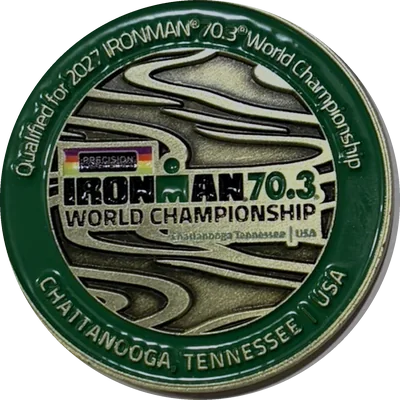
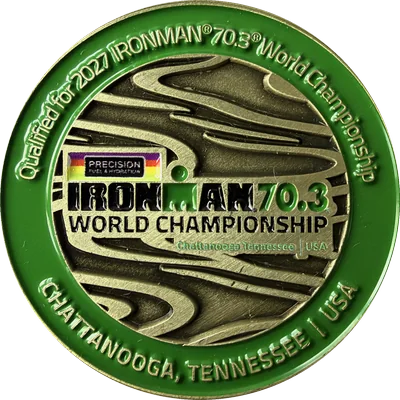
Replace the coin photos with daylight shots and give the patch its back
The new photos have no lamp glare, so the coins need no retouching; they are
fitted along the rim, corrected for the slightly oblique shot and levelled on
the lettering. The T100 patch now flips onto its velcro back like a coin.

diff --git a/assets/onepager/site.js b/assets/onepager/site.js
@@ -52,7 +52,7 @@
     coinsHint: "Tap a coin to flip it",
     coinNice: "Flip the Nice 2026 coin",
     coinNiceCaption: "70.3\nNice 2026",
-    patchQatar: "Spin the T100 Qatar 2025 patch",
+    patchQatar: "Flip the T100 Qatar 2025 patch",
     patchQatarCaption: "T100\nQatar 2025",
     coinChattanooga: "Flip the Chattanooga 2027 coin",
     goalEyebrow: "Looking ahead · 2027",
@@ -383,14 +383,14 @@
     .querySelector("#next-photo")
     .addEventListener("click", () => changePhoto(1));
   document.querySelector(".photo-controls").hidden = false;
-  // Each tap spins a coin one and a half turns, so it lands on its other face.
-  // The single-faced patch spins a full turn instead and has no flipped state.
+  // Each tap spins a coin or the patch one and a half turns, so it lands on its other face.
   document.querySelectorAll(".coin").forEach((coin) => {
-    const isPatch = coin.classList.contains("coin-patch");
-    // Thin metal discs stacked between the faces show the edge mid-spin.
+    // Thin metal discs stacked between the faces show a coin's edge mid-spin;
+    // the woven patch is too thin for one.
     // Only parallel layers: a plane across the faces makes Chrome split them.
+    const hasEdge = !coin.classList.contains("coin-patch");
     const inner = coin.querySelector(".coin-inner");
-    for (let layer = 0; !isPatch && layer <= 16; layer += 1) {
+    for (let layer = 0; hasEdge && layer <= 16; layer += 1) {
       const edge = document.createElement("span");
       edge.className = "coin-edge";
       edge.style.setProperty("--layer", layer);
@@ -399,8 +399,8 @@
     let turns = 0;
     coin.addEventListener("click", () => {
       turns += 1;
-      coin.style.setProperty("--coin-turn", `${turns * (isPatch ? 360 : 540)}deg`);
-      if (!isPatch) coin.setAttribute("aria-pressed", String(turns % 2 === 1));
+      coin.style.setProperty("--coin-turn", `${turns * 540}deg`);
+      coin.setAttribute("aria-pressed", String(turns % 2 === 1));
     });
   });
   document.querySelector(".coins-hint").hidden = false;

diff --git a/index.html b/index.html
@@ -56,8 +56,8 @@
       }
     </script>
     <link rel="icon" type="image/svg+xml" href="/assets/onepager/favicon.svg" />
-    <link rel="stylesheet" href="/assets/onepager/site.css?v=20261030-patch" />
-    <script src="/assets/onepager/site.js?v=20261030-patch" defer></script>
+    <link rel="stylesheet" href="/assets/onepager/site.css?v=20261031-photos" />
+    <script src="/assets/onepager/site.js?v=20261031-photos" defer></script>
   </head>
   <body>
     <a class="skip-link" href="#content" data-i18n="skip">Zum Inhalt</a>
@@ -811,15 +811,24 @@
                   <button
                     type="button"
                     class="coin coin-patch"
+                    aria-pressed="false"
                     aria-label="Patch T100 Katar 2025 drehen"
                     data-i18n-aria="patchQatar"
                   >
                     <span class="coin-inner">
                       <span class="coin-face"
                         ><img
-                          src="/assets/onepager/images/patch-t100-qatar-2025.webp"
+                          src="/assets/onepager/images/patch-t100-qatar-2025-front.webp"
                           alt=""
-                          width="238"
+                          width="237"
+                          height="400"
+                          loading="lazy"
+                      /></span>
+                      <span class="coin-face coin-back"
+                        ><img
+                          src="/assets/onepager/images/patch-t100-qatar-2025-back.webp"
+                          alt=""
+                          width="237"
                           height="400"
                           loading="lazy"
                       /></span>

diff --git a/assets/onepager/site.css b/assets/onepager/site.css
@@ -594,37 +594,25 @@ h3 {
   background: var(--coin-metal);
   transform: translateZ(calc((var(--layer) - 8) * var(--coin-depth) / 18));
 }
-/* The woven patch has one face: it spins a full turn and, halfway round, shows
-   the muted mirror image a real woven badge has on its back. */
+/* The woven patch flips like a coin onto its velcro back, but has no edge.
+   Each face is masked by its own photo so the shade follows the patch outline. */
 .coin-patch {
   --coin-depth: 0px;
   width: auto;
   height: var(--coin-size);
-  aspect-ratio: 238 / 400;
+  aspect-ratio: 237 / 400;
   border-radius: 4px;
 }
 .coin-patch .coin-face {
   border-radius: 0;
-  overflow: visible;
-  -webkit-backface-visibility: visible;
-  backface-visibility: visible;
-  -webkit-mask: url("/assets/onepager/images/patch-t100-qatar-2025.webp") center /
+  -webkit-mask: url("/assets/onepager/images/patch-t100-qatar-2025-front.webp")
+    center / 100% 100%;
+  mask: url("/assets/onepager/images/patch-t100-qatar-2025-front.webp") center /
     100% 100%;
-  mask: url("/assets/onepager/images/patch-t100-qatar-2025.webp") center / 100%
-    100%;
 }
-.coin-patch .coin-face::before {
-  content: "";
-  position: absolute;
-  inset: 0;
-  z-index: 1;
-  background: #f1e9e9;
-  opacity: 0;
-}
-@supports (opacity: calc(cos(90deg))) {
-  .coin-patch .coin-face::before {
-    opacity: calc(max(0, cos(var(--coin-angle)) * -0.55));
-  }
+.coin-patch .coin-back {
+  -webkit-mask-image: url("/assets/onepager/images/patch-t100-qatar-2025-back.webp");
+  mask-image: url("/assets/onepager/images/patch-t100-qatar-2025-back.webp");
 }
 .goal {
   display: grid;

diff --git a/tests/site.spec.js b/tests/site.spec.js
@@ -211,14 +211,18 @@ test("qualification coins flip between front and back on tap and keyboard", asyn
   await expect(page.locator('[data-i18n="coinNiceCaption"]')).toHaveText(
     "70.3Nice 2026",
   );
-  // The patch has one face: a tap is a full turn and there is no flipped state.
+  // The patch flips onto its velcro back like a coin, but has no metal edge.
   const patch = page.getByRole("button", {
-    name: "Spin the T100 Qatar 2025 patch",
+    name: "Flip the T100 Qatar 2025 patch",
     exact: true,
   });
   await patch.click();
-  await expect(patch).toHaveAttribute("style", /--coin-turn:\s*360deg/);
-  await expect(patch).not.toHaveAttribute("aria-pressed");
+  await expect(patch).toHaveAttribute("style", /--coin-turn:\s*540deg/);
+  await expect(patch).toHaveAttribute("aria-pressed", "true");
+  await expect(patch.locator(".coin-back img")).toHaveAttribute(
+    "src",
+    /patch-t100-qatar-2025-back\.webp$/,
+  );
   await expect(patch.locator(".coin-edge")).toHaveCount(0);
 });
 

diff --git a/README.md b/README.md
@@ -39,16 +39,16 @@ Unter dem Kontaktbereich steht ein aufklappbares «Kurzporträt für Medien» in
 | Karussell 3 | `after-race-*.webp` | `77fa350a-20a3-4ba6-832f-f4a7f7e9d105.JPG` |
 | My Story | `story-portrait.webp` | `DSC04684.JPG` |
 | Coin Nizza 2026 | `coin-nice-2026-front.webp`, `coin-nice-2026-back.webp` | `coin-nice-2026-front.jpg`, `coin-nice-2026-back.jpg` |
-| Patch T100 Katar 2025 | `patch-t100-qatar-2025.webp` | `patch-t100-qatar-2025.jpg` |
+| Patch T100 Katar 2025 | `patch-t100-qatar-2025-front.webp`, `patch-t100-qatar-2025-back.webp` | `patch-t100-qatar-2025-front.jpg`, `patch-t100-qatar-2025-back.jpg` |
 | Coin Chattanooga 2027 | `coin-chattanooga-2027-front.webp`, `coin-chattanooga-2027-back.webp` | `coin-chattanooga-2027-front.jpg`, `coin-chattanooga-2027-back.jpg` |
 
 Die Originale bleiben unverändert in der Inbox. Webkopien sind verkleinert und ohne EXIF-Metadaten gespeichert. Die Fotos werden ohne Farbfilter oder abdunkelnde Überlagerung dargestellt. Name und Bild liegen auf getrennten Flächen. Kreuz und Ortsangabe wurden aus dem Karussell entfernt. Fotocredits sind noch nicht angegeben.
 
 ## WM-Coins und Patch
 
-Unter der Saisonliste steht «Meine Weltmeisterschaften»: der Patch vom T100-WM-Finale Katar 2025 (12.12.2025, 22. Rang laut [PTO](https://stats.protriathletes.org/athlete/leana-bissig), geprüft 30.10.2026) sowie Leanas Qualifikations-Coins der 70.3-WM Nizza 2026 und Chattanooga 2027, chronologisch von links. Tippen, Klicken, Enter oder Leertaste drehen einen Coin eineinhalb Umdrehungen auf die andere Seite; `aria-pressed` zeigt an, ob die Rückseite oben liegt. Der Patch hat nur eine Vorderseite: Er dreht sich eine ganze Umdrehung und zeigt dabei kurz eine gedämpfte Spiegelung wie die Rückseite eines gewobenen Abzeichens; er hat kein `aria-pressed`. Mit Maus kippen Coins und Patch beim Überfahren leicht als Hinweis. Bei «Bewegung reduzieren» wechselt die Seite ohne Animation. Ohne JavaScript bleibt die Vorderseite sichtbar und der Hinweis «Zum Drehen antippen» ausgeblendet.
+Unter der Saisonliste steht «Meine Weltmeisterschaften»: der Patch vom T100-WM-Finale Katar 2025 (12.12.2025, 22. Rang laut [PTO](https://stats.protriathletes.org/athlete/leana-bissig), geprüft 30.10.2026) sowie Leanas Qualifikations-Coins der 70.3-WM Nizza 2026 und Chattanooga 2027, chronologisch von links. Tippen, Klicken, Enter oder Leertaste drehen einen Coin oder den Patch eineinhalb Umdrehungen auf die andere Seite; `aria-pressed` zeigt an, ob die Rückseite oben liegt. Der Patch zeigt hinten seine Klettseite und hat als dünnes Gewebe keinen Metallrand. Mit Maus kippen Coins und Patch beim Überfahren leicht als Hinweis. Bei «Bewegung reduzieren» wechselt die Seite ohne Animation. Ohne JavaScript bleibt die Vorderseite sichtbar und der Hinweis «Zum Drehen antippen» ausgeblendet.
 
-Die Bilder sind eigene Fotos der Coins vom 30.10.2026 (Originale in der Inbox), keine Bilder aus dem Netz. Sie sind rund freigestellt, am Papierhintergrund weissabgeglichen (ohne Aufhellen; Lichter weich zurückgenommen, damit Metall nicht ausfrisst) und um 90° aufgerichtet. Lampenreflexe auf der Emaille sind retuschiert: In von Hand festgelegten Emaille-Bereichen erhalten helle, blasse Pixel die Farbe der umliegenden Emaille zurück; Gold- und Messingschrift, Relief und die weissen Schirmstreifen auf der Nizza-Rückseite bleiben unverändert. Gespeichert sind sie als 400 × 400 px WebP mit Transparenz und ohne Metadaten. Der Patch ist über seine rosa Farbe freigestellt (Umriss mit Stickrand erhalten), am Papier weissabgeglichen und als 238 × 400 px WebP gespeichert; dieselbe Datei dient in `site.css` als Maske für die Schattierung. Für einen weiteren Coin genügt eine weitere `figure.coin-item` mit Vorder- und Rückseite; das `aria-label` wird in `site.js` übersetzt.
+Die Bilder sind eigene Fotos der Coins und des Patches vom 31.10.2026 bei Tageslicht (Originale in der Inbox), keine Bilder aus dem Netz. Die Coins sind am Rand entlang freigestellt (Ellipse auf den Rand gepasst und auf einen Kreis entzerrt, damit die schräge Aufnahme ausgeglichen ist), an der Schrift waagrecht ausgerichtet, am Papierhintergrund weissabgeglichen, um 8 % aufgehellt und in den Lichtern weich zurückgenommen, damit Metall nicht ausfrisst. Eine Retusche war nicht nötig. Gespeichert sind sie als 400 × 400 px WebP mit Transparenz und ohne Metadaten. Vorder- und Rückseite des Patches sind über den rosa Stickrand freigestellt, gerade gerichtet, am Papier weissabgeglichen (die hellere Rückseite auf die Helligkeit der Vorderseite) und als 237 × 400 px WebP gespeichert; jede Datei dient in `site.css` zugleich als Maske für die Schattierung ihrer Seite. Für einen weiteren Coin genügt eine weitere `figure.coin-item` mit Vorder- und Rückseite; das `aria-label` wird in `site.js` übersetzt.
 
 ## Logos
 
